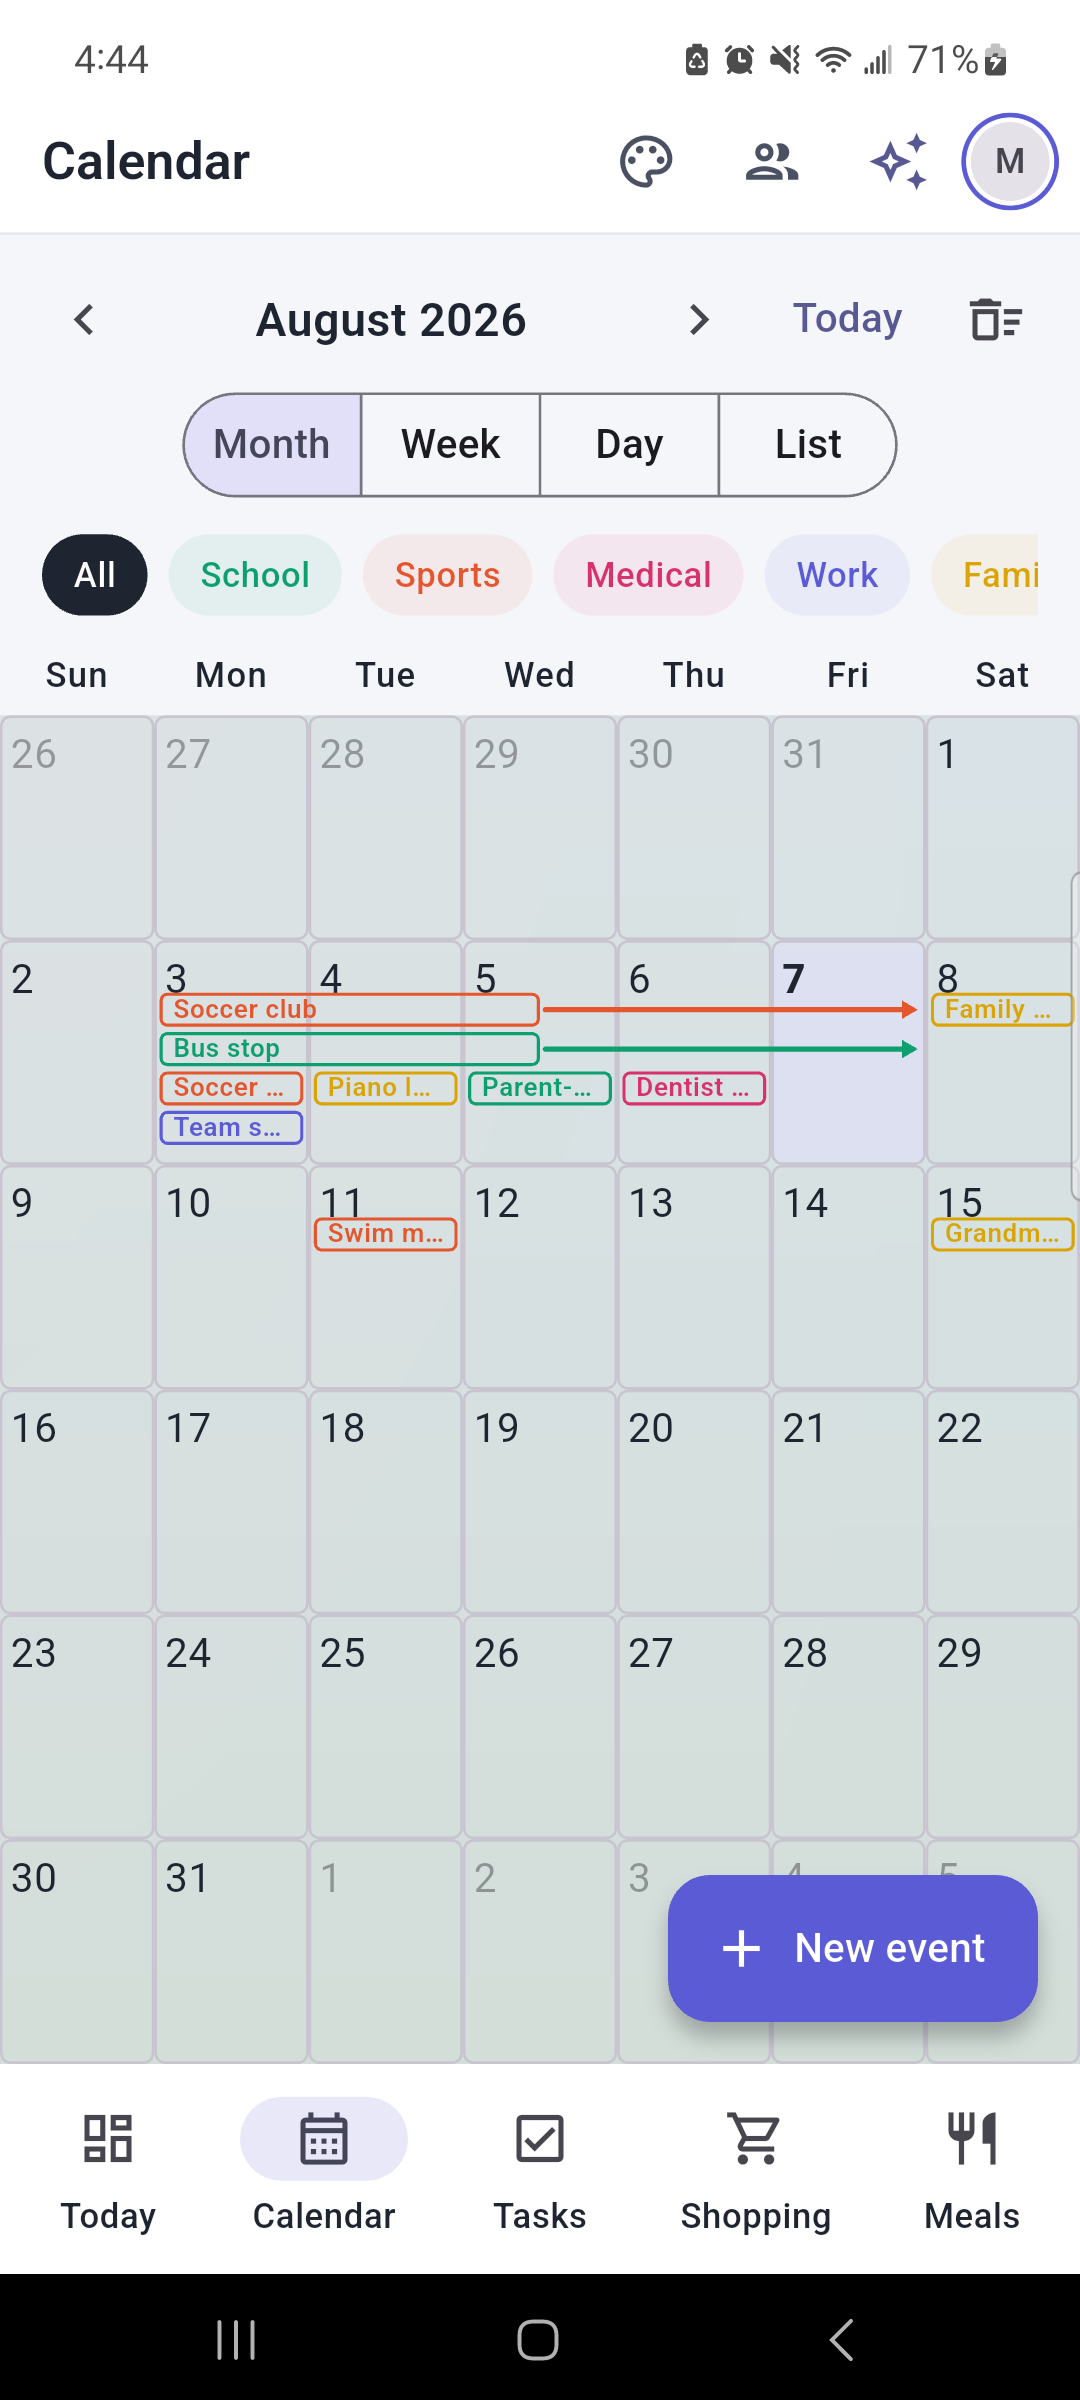
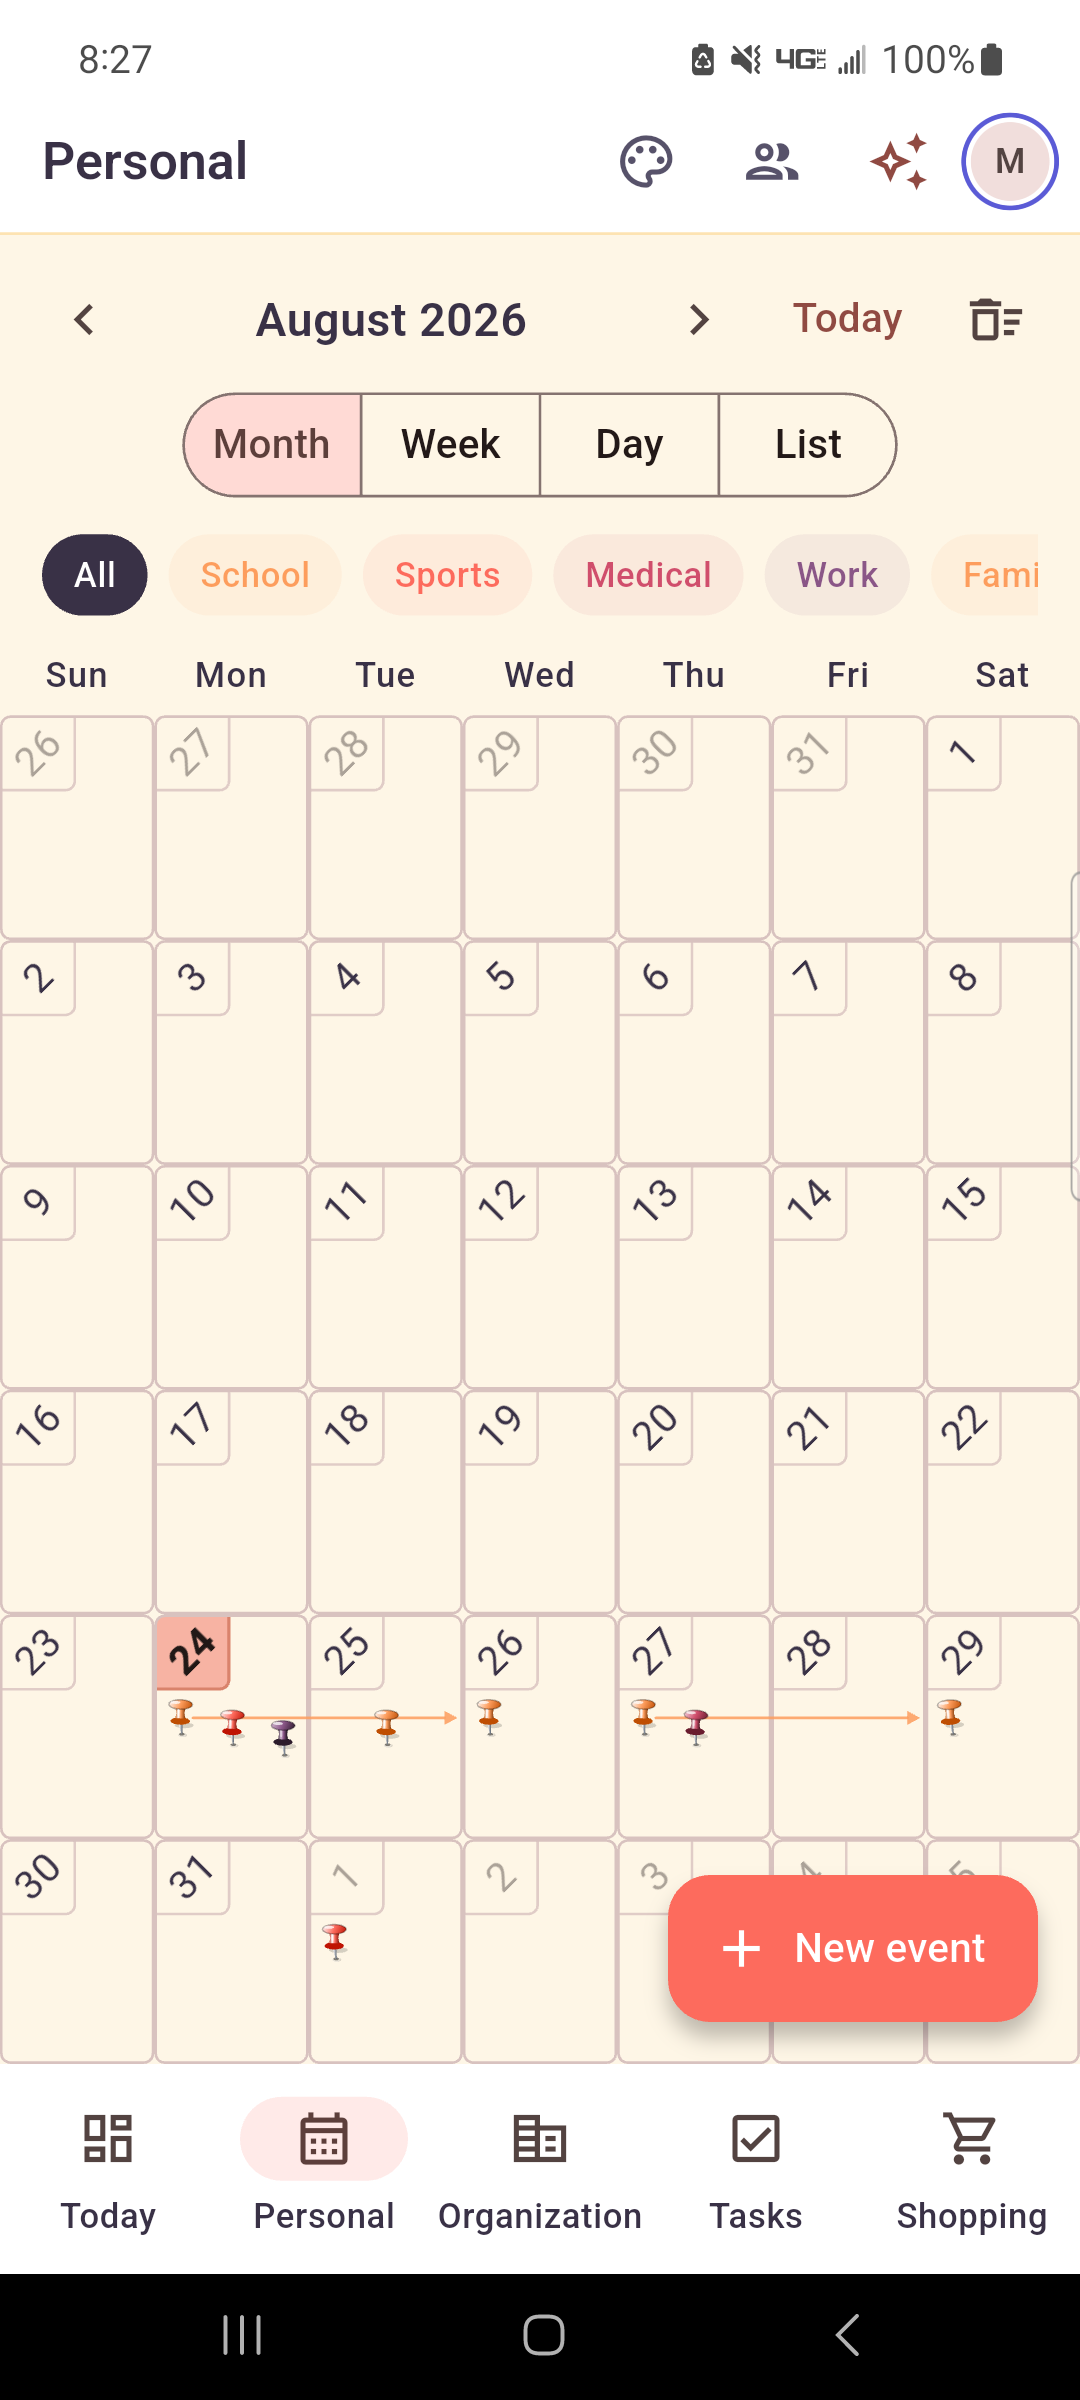
Refresh the app screenshots in the Sunset theme, add the theme gallery
All five screenshots recaptured from the real app on a Galaxy A51 —
demo family, no real calendar data — now wearing the Sunset theme pack,
which matches the new oak-and-amber Cadent icon rather than the old
indigo-on-white. The hero (month-view) shows the corkboard with its
pins and the category colours the theme sets.

Adds a sixth shot to "A look inside": the theme gallery, captioned
"Dress it in a look the whole family sees".

Note for the next pass: that gallery image shows "$0.99 each" on the
pack shelf, and in-app purchases are not wired yet. Owner is aware and
chose to ship it; revisit if launch arrives before billing does.

Verified locally: all six load, five gallery cards, no horizontal
overflow at 375px or 320px.

diff --git a/index.html b/index.html
@@ -263,6 +263,15 @@
               <figcaption>Today, at a glance</figcaption>
             </figure>
           </div>
+          <div class="shot">
+            <figure>
+              <div class="frame">
+                <img src="assets/screenshots/theme-packs.png" alt="The theme gallery: light and dark looks above a shelf of theme packs, each card previewing the colours of that pack" onerror="this.style.display='none';this.nextElementSibling.style.display='flex'">
+                <div class="placeholder" style="display:none;flex-direction:column">Themes<span>added before launch</span></div>
+              </div>
+              <figcaption>Dress it in a look the whole family sees</figcaption>
+            </figure>
+          </div>
         </div>
       </div>
     </section>

diff --git a/assets/screenshots/README.md b/assets/screenshots/README.md
@@ -14,6 +14,7 @@ device's native portrait resolution):
 | `week-view.png` | Week view, several people's events colour-coded |
 | `privacy-picker.png` | The "who can see this" picker on an event |
 | `today-view.png` | Today screen with greeting and upcoming events |
+| `theme-packs.png` | The theme gallery — light/dark plus the pack shelf |
 
 ## Rules (from the brief)
 
